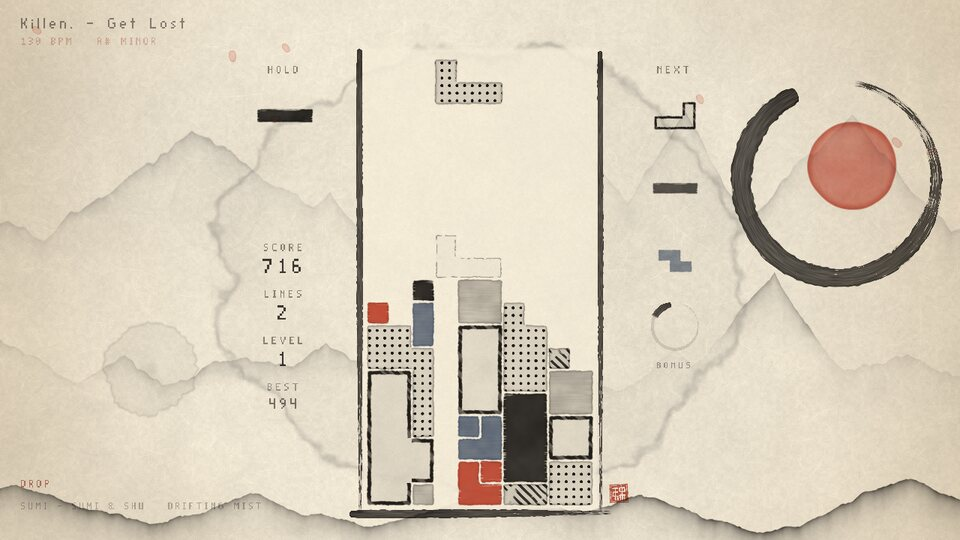
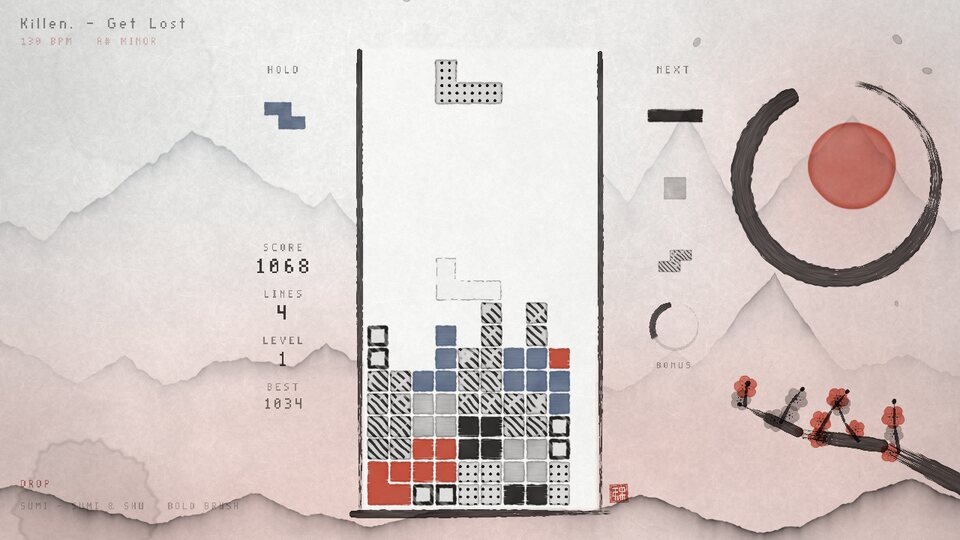
SUMI docs: the peak's plum branch, petals and the drop's colored sky; new screenshot
Claude-Session: https://claude.ai/code/session_01DBPtRFs6M8Q4o53Qj6BCRE

diff --git a/docs/universes.md b/docs/universes.md
@@ -20,7 +20,7 @@ Phosphor beams on a dark CRT. Four phosphors (P1 green, P3 amber, P4 white, P22 
 
 ![SUMI](universes/sumi.jpg)
 
-Ink on washi paper. Eight inks (SUMI & SHU, AIZOME & OCHRE, SEPIA & CELADON, MURASAKI & GOLD, MATCHA & RUST, KAKI & CHARCOAL, and two lacquer negatives, URUSHI & SILVER and YORU & GOLD), from the key's hue (night songs sometimes take a negative). Slow motion turns the print to its negative.
+Ink on washi paper. Eight inks (SUMI & SHU, AIZOME & OCHRE, SEPIA & CELADON, MURASAKI & GOLD, MATCHA & RUST, KAKI & CHARCOAL, and two lacquer negatives, URUSHI & SILVER and YORU & GOLD), from the key's hue (night songs sometimes take a negative). Calm is a faint far mountain on white paper, mid brings mist, drifting ranges and a few petals; the peak brushes the ensō around a red sun and paints a plum branch in from the bottom right corner, stroke by stroke, its blossoms (the accent's wash or pale ink) opening behind the brush while petals drift down across the paper on a gentle wind (faint behind the well). A drop waits for its first downbeat to brush the ensō and the branch, blows a flurry of petals off the blossoms that settles to a steady fall, and soaks the lower sky in a wash of color (the accent, or a deeper second ink where the accent is gold), with one swell on the downbeat and a steady level for the whole drop. Slow motion turns the print to its negative.
 
 ## DIORAMA
 
@@ -111,7 +111,7 @@ others are ideas waiting to be built. To build one, see [Adding a universe](addi
 
 | # | Universe | Look | How the music plays it | Status |
 |---|---|---|---|---|
-| 1 | SUMI | Ink on washi paper, sumi black + one vermilion seal; brushed pieces told apart by ink treatment | Beats diffuse ink in the paper; calm = faint far mountain, peak = ensō brush circle and red sun; a clear is one brush stroke | ✅ |
+| 1 | SUMI | Ink on washi paper, sumi black + one vermilion seal; brushed pieces told apart by ink treatment | Beats diffuse ink in the paper; calm = faint far mountain, peak = ensō brush circle, red sun, a plum branch painted in and falling petals; a drop colors the sky | ✅ |
 | 2 | VECTOR | Phosphor beams on black CRT glass, one phosphor per song, persistence trails; pieces are line glyphs | Calm = a lone oscilloscope trace; mid = scrolling vector grid; peak = low spectrum mountains and faint Lissajous scopes, breathing on the beat (no flash, no shake); clears shatter into vector debris | ✅ |
 | 3 | DIORAMA | Clay miniature by night: the board on a floating island, soft shadows, tilt-shift | Phases move the moon across the sky; kicks ripple the water; cleared blocks tumble into the sea; slow motion is a sunlit day | ✅ |
 | 4 | PIXEL | Native 320×180 pixel art, 16-color palette, Bayer dithering, parallax layers | Sprites animate on the beat; peak adds parallax layers and weather; clears are pixel explosions | ✅ |
